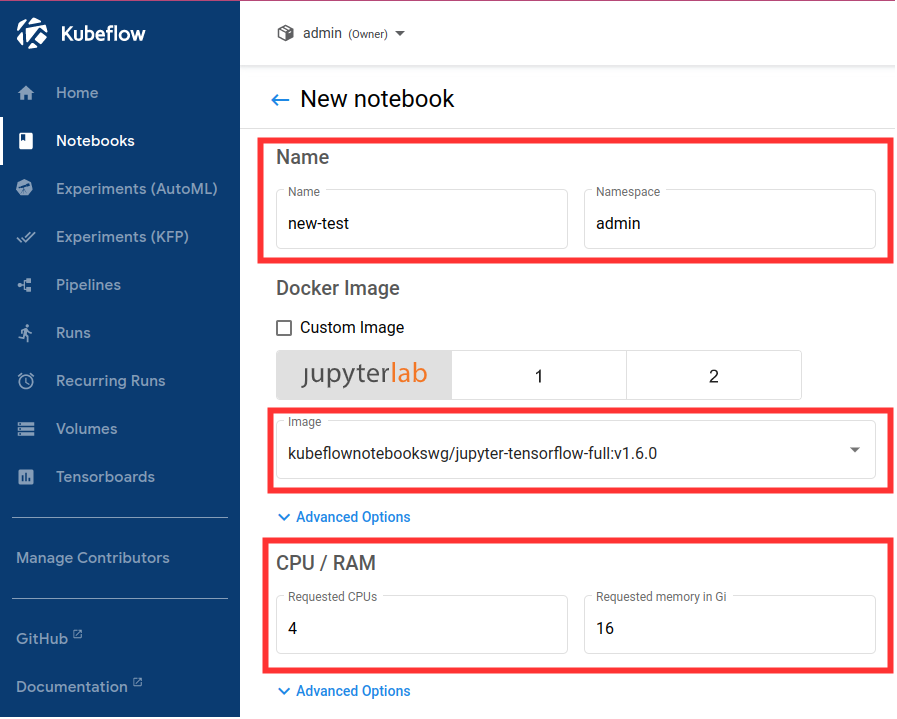
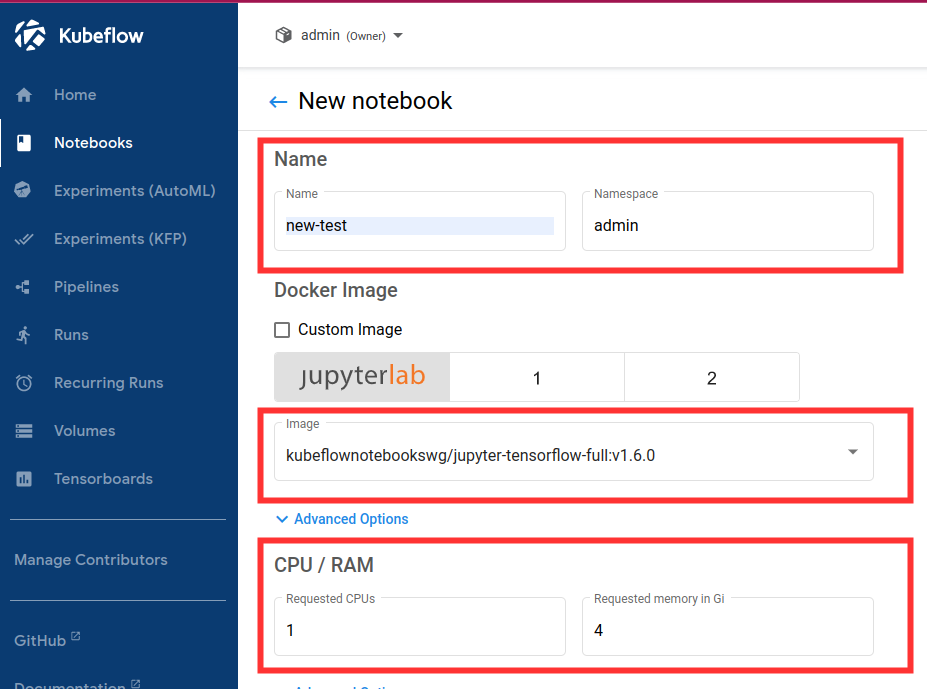
Documentation: ML Workflow Demo:i Kubeflow - Katib - ML Flow https://warthogs.atlassian.net/browse/KF-786
Summary of changes:
- Added pipeline graph and MLFloew registry screenshots.
- Modified notebook creating screenshot to have 1CPU and 4GBRAM.
- Modified README.md to have inclusions on Jupyter notebook
  (experimental).

diff --git a/ml-workflow-demo-kfp-katib-mlflow/README.md b/ml-workflow-demo-kfp-katib-mlflow/README.md
@@ -132,11 +132,15 @@ Pipeline code
 
 11. Execute pipeline.
 ```
-Pipeline exec code
+@@include[ml-workflow-demo-kfp-katib-mlflow.ipynb](resources/ml-workflow-demo-kfp-katib-mlflow.ipynb) { #Execute-Pipeline }
 ```
 
-12. Observe run details.
+12. Observe run details by selecting **Run details** link.
 
 ![Run](./images/ML-Workflow-RunDetails.png)
 
-13. Verify that model is stored in MLFlow model registry.
+![Pipeline](./images/ML-Workflow-Pipeline.png)
+
+13. Verify that model is stored in MLFlow model registry by navigating to ML Flow dashboard: http://10.64.140.43.nip.io/mlflow/#/
+
+![MLFlow](./images/ML-Workflow-MLFLowRegistry.png)
